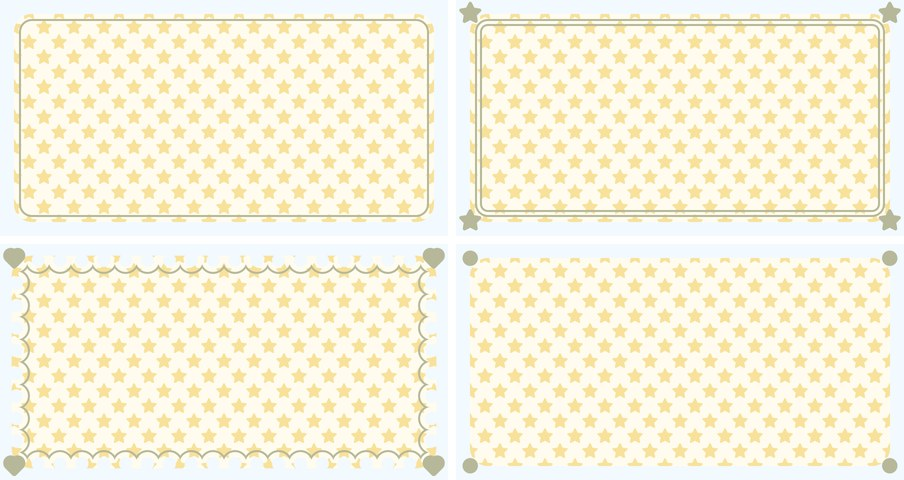
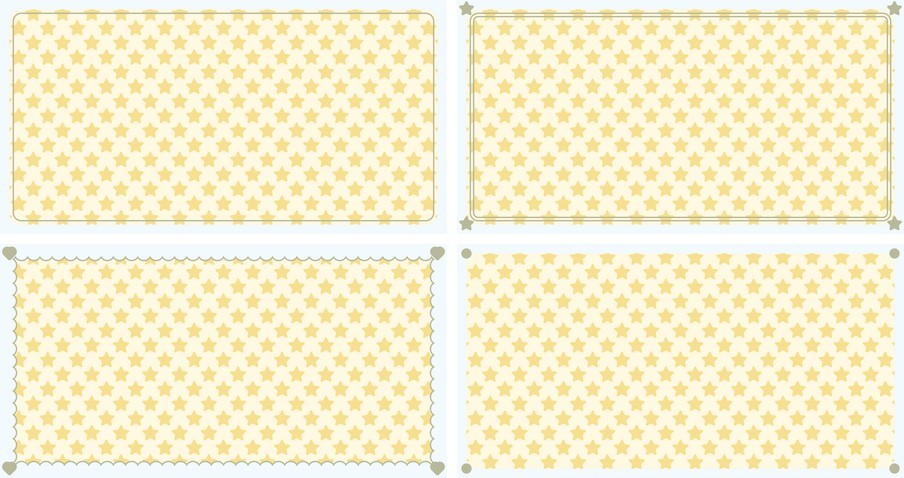
Fix the scallop frame: matching corners, no round notches outside the edge (0.2.1)
Square corners with a bump on each, overlapping bumps, and the line traced on the edge itself.
Bump size is capped at a quarter of the window's short side.

diff --git a/frame.py b/frame.py
@@ -31,10 +31,11 @@ def _sd_round_box(x, y, hw, hh, r):
 
 
 def _scallop_centers(hw, hh, bump):
-    """Bump centers along the straight edges of a (hw, hh) box, evenly spaced and meeting at the corners."""
+    """Bump centers on the edges of a (hw, hh) box: one on each corner, evenly spaced in between and close enough
+    that neighboring bumps overlap (so the box edge never shows between them)."""
     pts = []
     for half, other, horizontal in ((hw, hh, True), (hh, hw, False)):
-        n = max(2, int(round(2 * half / (bump * 1.7))))
+        n = max(2, int(np.ceil(2 * half / (bump * 0.95))))
         for t in np.linspace(-half, half, n + 1):
             for s in (-other, other):
                 pts.append((t, s) if horizontal else (s, t))
@@ -51,13 +52,14 @@ def window_sd(width, height, margin, corner_radius, style, bump, reach=64.0):
     hw, hh = width / 2.0 - margin, height / 2.0 - margin
     if hw <= 1 or hh <= 1:
         raise ValueError("margin is too large for the image")
-    d = _sd_round_box(x, y, hw, hh, corner_radius)
+    # scallop: square corners, the corner bumps make the four corners the same quarter circle
+    d = _sd_round_box(x, y, hw, hh, 0.0 if style == "scallop" else corner_radius)
     if style == "scallop":
-        r = bump / 2.0
+        r = min(bump / 2.0, min(hw, hh) * 0.25)  # huge deco sizes would eat the whole window
         dc = np.full_like(d, np.inf)
         # far inside the window the bumps barely change the line; cap the box so extreme settings stay bounded
         ext = int(np.ceil(min(r + reach, 4 * r + 64))) + 2
-        for cx, cy in _scallop_centers(hw - r * 0.35, hh - r * 0.35, bump):
+        for cx, cy in _scallop_centers(hw, hh, 2 * r):
             # pixel box around the bump (centered coordinates -> array indices)
             px, py = int(round(cx + (width - 1) / 2.0)), int(round(cy + (height - 1) / 2.0))
             ys, xs = slice(max(py - ext, 0), min(py + ext + 1, height)), slice(max(px - ext, 0), min(px + ext + 1, width))
@@ -65,7 +67,8 @@ def window_sd(width, height, margin, corner_radius, style, bump, reach=64.0):
                 continue
             local = np.sqrt((x[ys, xs] - cx) ** 2 + (y[ys, xs] - cy) ** 2) - r
             dc[ys, xs] = np.minimum(dc[ys, xs], local)
-        d = np.maximum(d - r * 0.35, -dc)  # the bumps eat into the window
+        # the bumps eat into the window; their outer halves lie on the band, so nothing shows outside the edge
+        d = np.maximum(d, -dc)
     return d
 
 
@@ -74,13 +77,15 @@ def render_frame(image, style="rounded", margin=28, corner_radius=36, line_width
                  roundness=0.8):
     """image (H, W, 3) float in [0, 1] -> (framed image, frame coverage (H, W))."""
     h, w = image.shape[:2]
-    bump = max(float(deco_size) * 0.6, 8.0)
+    bump = max(float(deco_size) * 0.9, 8.0)
     d = window_sd(w, h, margin, corner_radius, style, bump,
                   reach=line_gap + 3.5 * line_width + 4 + float(deco_size))
     band = _aa(-d)  # 1 on the frame
     lines = np.zeros_like(band)
     if style != "plain" and line_width > 0:
-        offsets = [line_gap] if style != "double_line" else [line_gap, line_gap + 2.5 * line_width]
+        # scallop: the line traces the bumps themselves (a line set inside would flatten them and leave
+        # round notches of the pattern outside it)
+        offsets = {"double_line": [line_gap, line_gap + 2.5 * line_width], "scallop": [0.0]}.get(style, [line_gap])
         for off in offsets:
             lines = np.maximum(lines, _aa(np.abs(d + off + line_width / 2.0) - line_width / 2.0))
     motifs = np.zeros_like(band)

diff --git a/tests/test_palettes_frame.py b/tests/test_palettes_frame.py
@@ -140,3 +140,17 @@ def test_scallop_extreme_settings_are_bounded():
     F.render_frame(np.zeros((1024, 1024, 3), np.float32), style="scallop", margin=40, line_gap=512, line_width=256,
                    deco_size=4)
     assert time.time() - t < 20
+
+
+def test_scallop_corners_match_and_nothing_outside():
+    # the four corners are the same shape, and the window never reaches past the straight frame edge
+    d = F.window_sd(832, 1216, 28, 36, "scallop", 40.0, reach=64)
+    near = np.maximum(d, -40.0)  # bumps are computed only near the edge (see test_scallop_local_matches_full)
+    assert np.allclose(near, near[::-1, :], atol=1e-3) and np.allclose(near, near[:, ::-1], atol=1e-3)
+    assert (d[:28, :] > 0).all() and (d[:, :28] > 0).all()
+
+
+@pytest.mark.parametrize("w,h,deco", [(512, 512, 256), (1344, 704, 1024), (200, 200, 44)])
+def test_scallop_huge_bumps_keep_the_window(w, h, deco):
+    _, mask = F.render_frame(np.zeros((h, w, 3), np.float32), style="scallop", margin=8, deco_size=deco)
+    assert (mask < 0.5).mean() > 0.4
